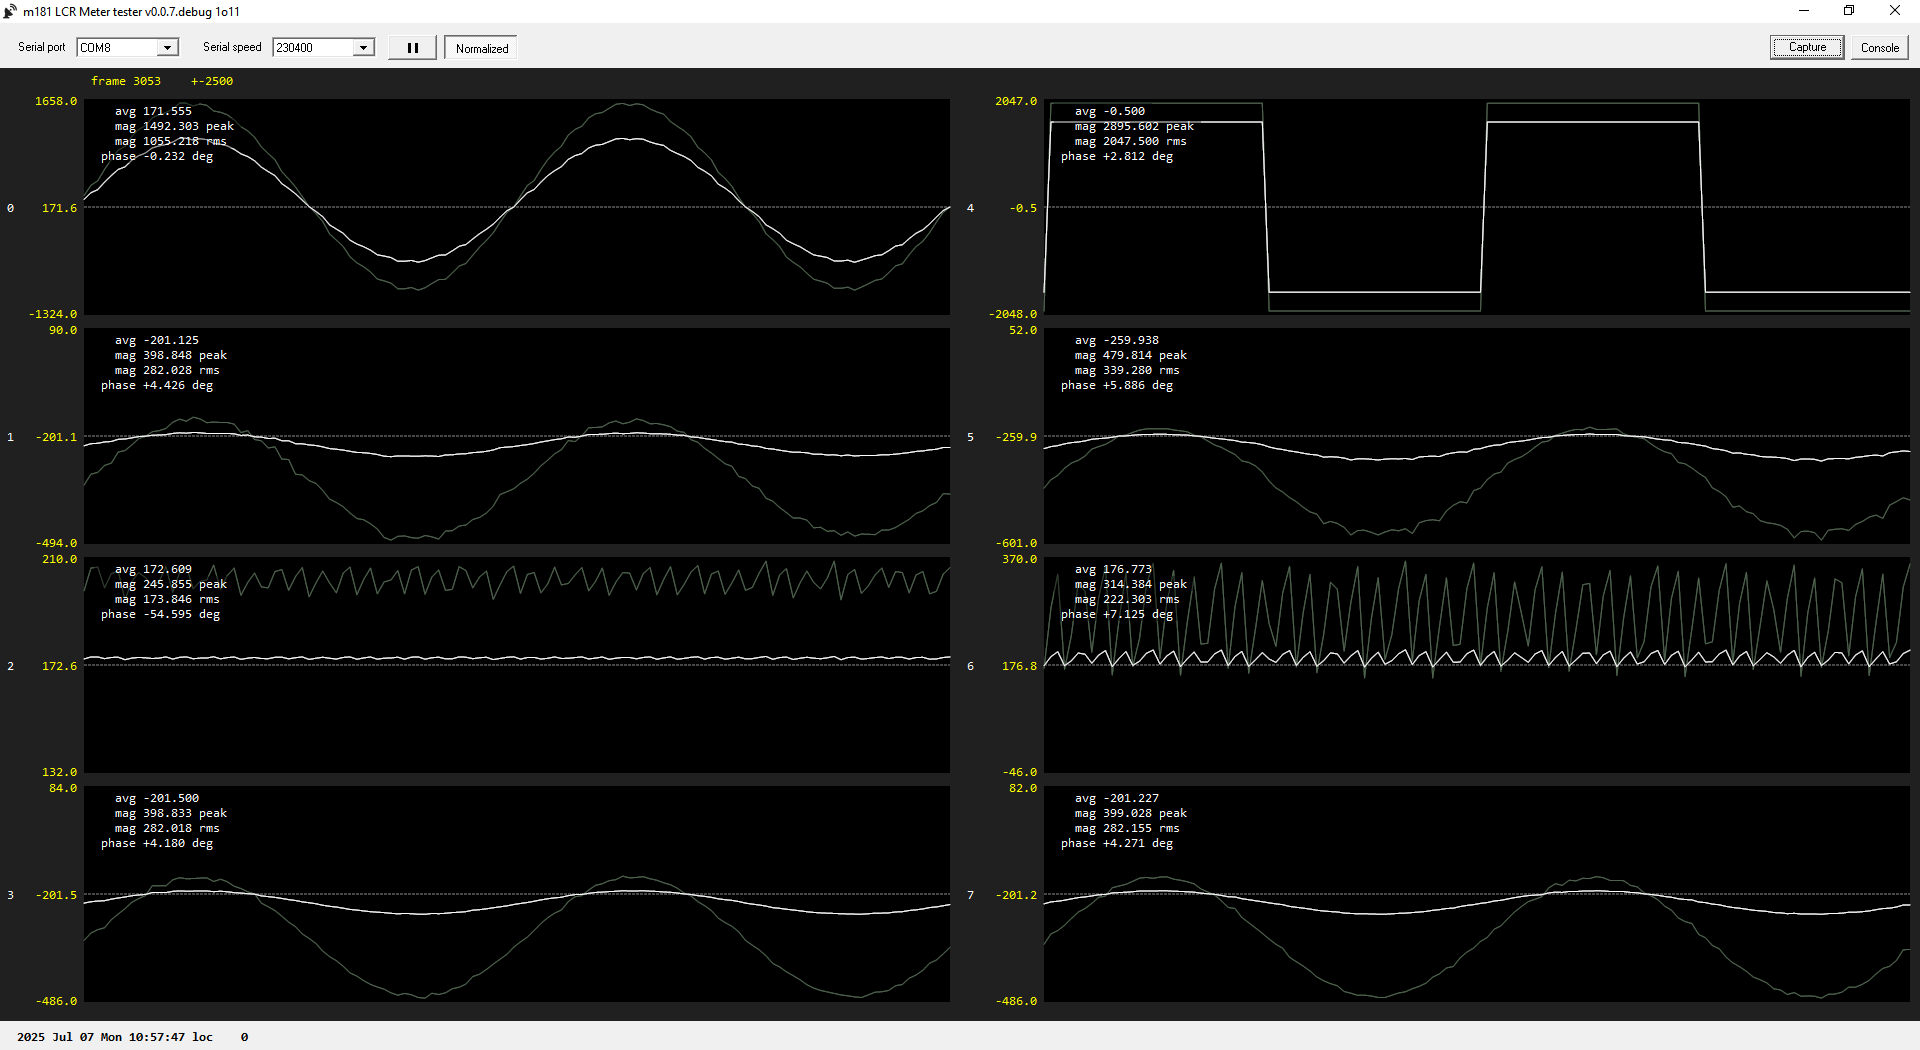
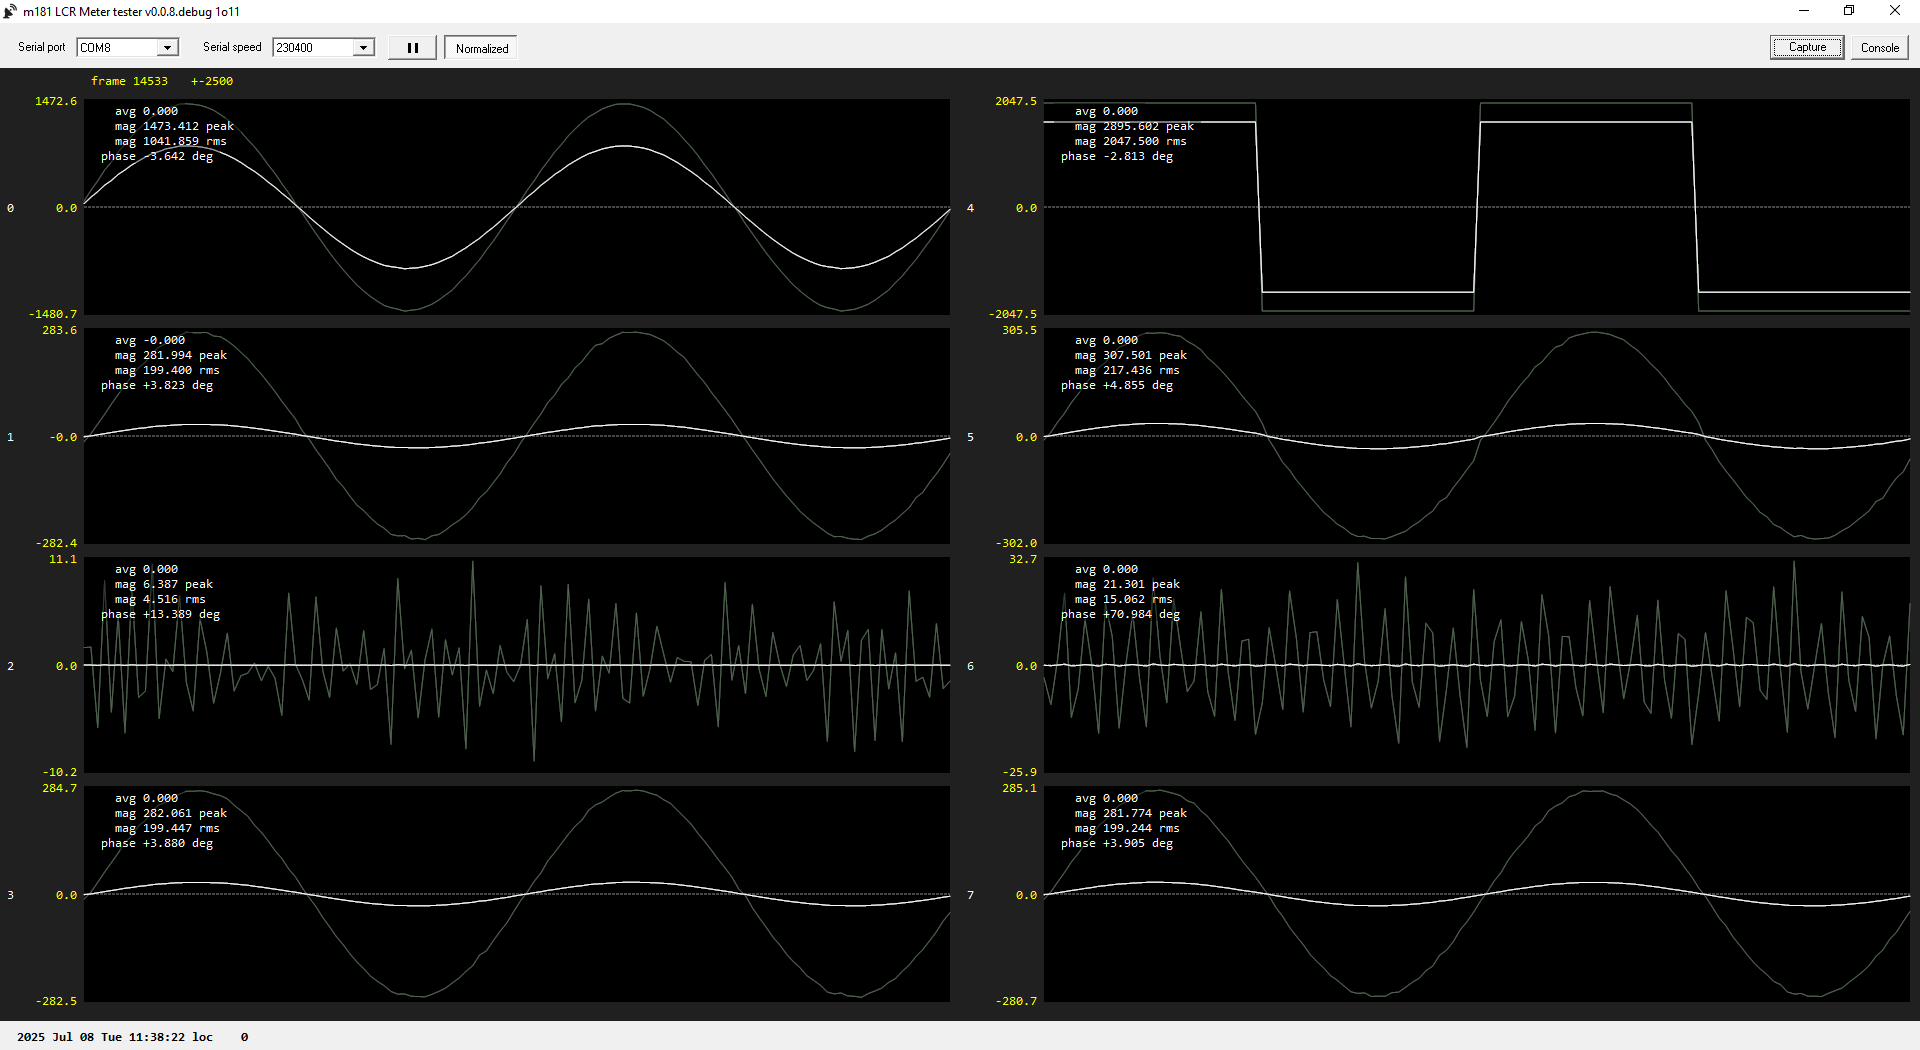
Updated with DC removed image

diff --git a/README.md b/README.md
@@ -54,11 +54,11 @@
 
 - streamed uart data from the M181 to the windows test GUI (compiled with Borland c++ builder v6) ..
 
-without Goertzel filter, no block averaging ..
+without Goertzel filter, no block averaging, no DC offset removal ..
 
 <img src="firmware/docs/windows_gui_image_goertzel_filter_disabled_no_averaging.png" alt="image" style="width:600px;height:auto;">
 
-without Goertzel filter, with block averaging ..
+without Goertzel filter, with block averaging, with auto DC offset removal ..
 
 <img src="firmware/docs/windows_gui_image_goertzel_filter_disabled.png" alt="image" style="width:600px;height:auto;">
 
